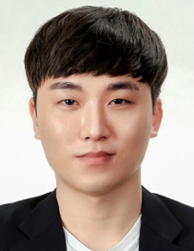
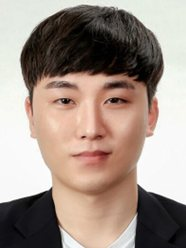
Normalize member photos and even out professor info rhythm
All 13 member portraits are now true JPEGs at an exact 3:4 ratio
(width-centered, top-biased crop; capped at 480x640). Three were PNGs
with a .jpg extension; total weight drops 1,586KB -> 367KB. Display
sizes that were near-3:4 (alumni 130x178, mobile steps, placeholder)
are aligned to exact 3:4, so object-fit no longer crops anything.

Professor info column: the email paragraph had no margin rule (reset 0)
and the department line used 12px; both now sit on the uniform 8px
rhythm, with 4px inside the name pair and 16px before the links.

Claude-Session: https://claude.ai/code/session_01V1Past4v38pPX8GHXmKyAL

diff --git a/themes/gnsslab/static/css/style.css b/themes/gnsslab/static/css/style.css
@@ -1485,7 +1485,7 @@ input, textarea, select {
 
 .photo-placeholder {
   width: 120px;
-  height: 140px;
+  height: 160px;
   background: linear-gradient(135deg, var(--color-primary), var(--color-primary-light));
   border-radius: var(--radius-lg);
   display: flex;
@@ -1537,7 +1537,11 @@ input, textarea, select {
 .professor-dept {
   font-size: var(--text-sm);
   color: var(--color-text-light);
-  margin-bottom: var(--space-3);
+  margin-bottom: var(--space-2);
+}
+
+.professor-email {
+  margin-bottom: var(--space-2);
 }
 
 .professor-email a {
@@ -1711,7 +1715,7 @@ input, textarea, select {
 
 .alumni-card {
   display: grid;
-  grid-template-columns: 130px 1fr;
+  grid-template-columns: 132px 1fr;
   gap: var(--space-6);
   background: var(--color-surface);
   border: 1px solid var(--color-border-light);
@@ -1734,8 +1738,8 @@ input, textarea, select {
 
 .alumni-img,
 .alumni-photo .photo-placeholder--alumni {
-  width: 130px;
-  height: 178px;
+  width: 132px;
+  height: 176px;
   border-radius: var(--radius-lg);
   object-fit: cover;
   display: block;
@@ -3151,8 +3155,8 @@ input, textarea, select {
 
   .alumni-img,
   .alumni-photo .photo-placeholder--alumni {
-    width: 110px;
-    height: 151px;
+    width: 108px;
+    height: 144px;
   }
 
   .alumni-edu-table {
@@ -3279,15 +3283,15 @@ input, textarea, select {
   .members-list { gap: var(--space-3); }
 
   .member-card {
-    grid-template-columns: 80px 1fr;
+    grid-template-columns: 84px 1fr;
     gap: var(--space-4);
     padding: var(--space-3) var(--space-4);
   }
 
   .member-photo img,
   .member-photo .photo-placeholder {
-    width: 80px;
-    height: 106px;
+    width: 84px;
+    height: 112px;
   }
 
   .member-card:hover { transform: none; }
